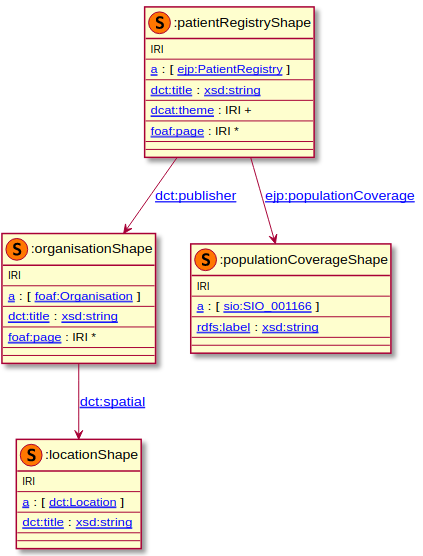
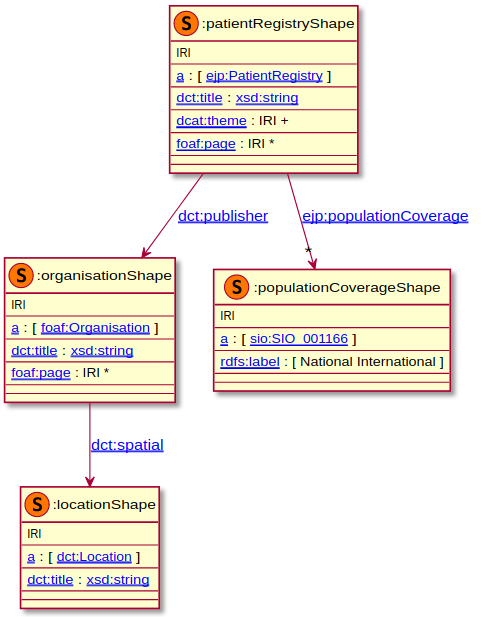
patient registry shex modified

Changed region(s): [[0.0, 0.3669, 0.3995, 1.0], [0.3381, 0.0, 0.7683, 0.3669], [0.4303, 0.3363, 0.9835, 0.6421]]

diff --git a/docs/patient-registry.md b/docs/patient-registry.md
@@ -67,7 +67,7 @@ PREFIX rdfs:  <http://www.w3.org/2000/01/rdf-schema#>
 :patientRegistryShape IRI {
   a [ejp:PatientRegistry];
   dct:title xsd:string;
-  ejp:populationCoverage @:populationCoverageShape;
+  ejp:populationCoverage @:populationCoverageShape*;
   dcat:theme IRI+;
   dct:publisher @:organisationShape;
   foaf:page IRI*
@@ -87,6 +87,6 @@ PREFIX rdfs:  <http://www.w3.org/2000/01/rdf-schema#>
 
 :populationCoverageShape IRI {
   a [sio:SIO_001166];
-  rdfs:label xsd:string;
+  rdfs:label ["National" "International"]
 }
 ```
